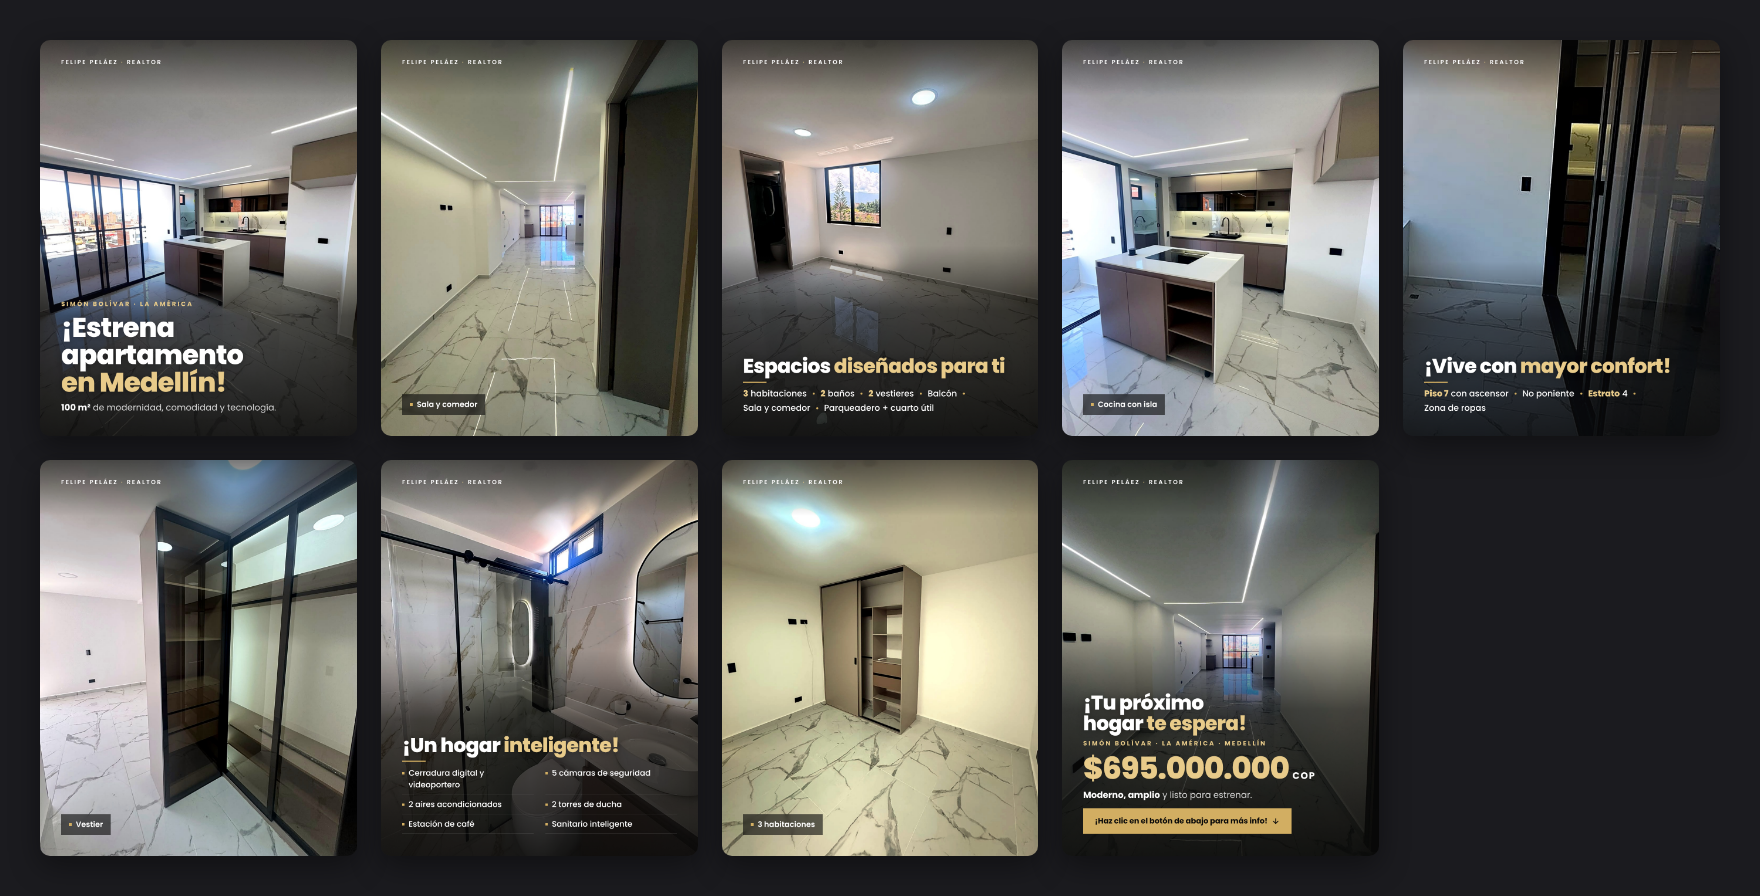
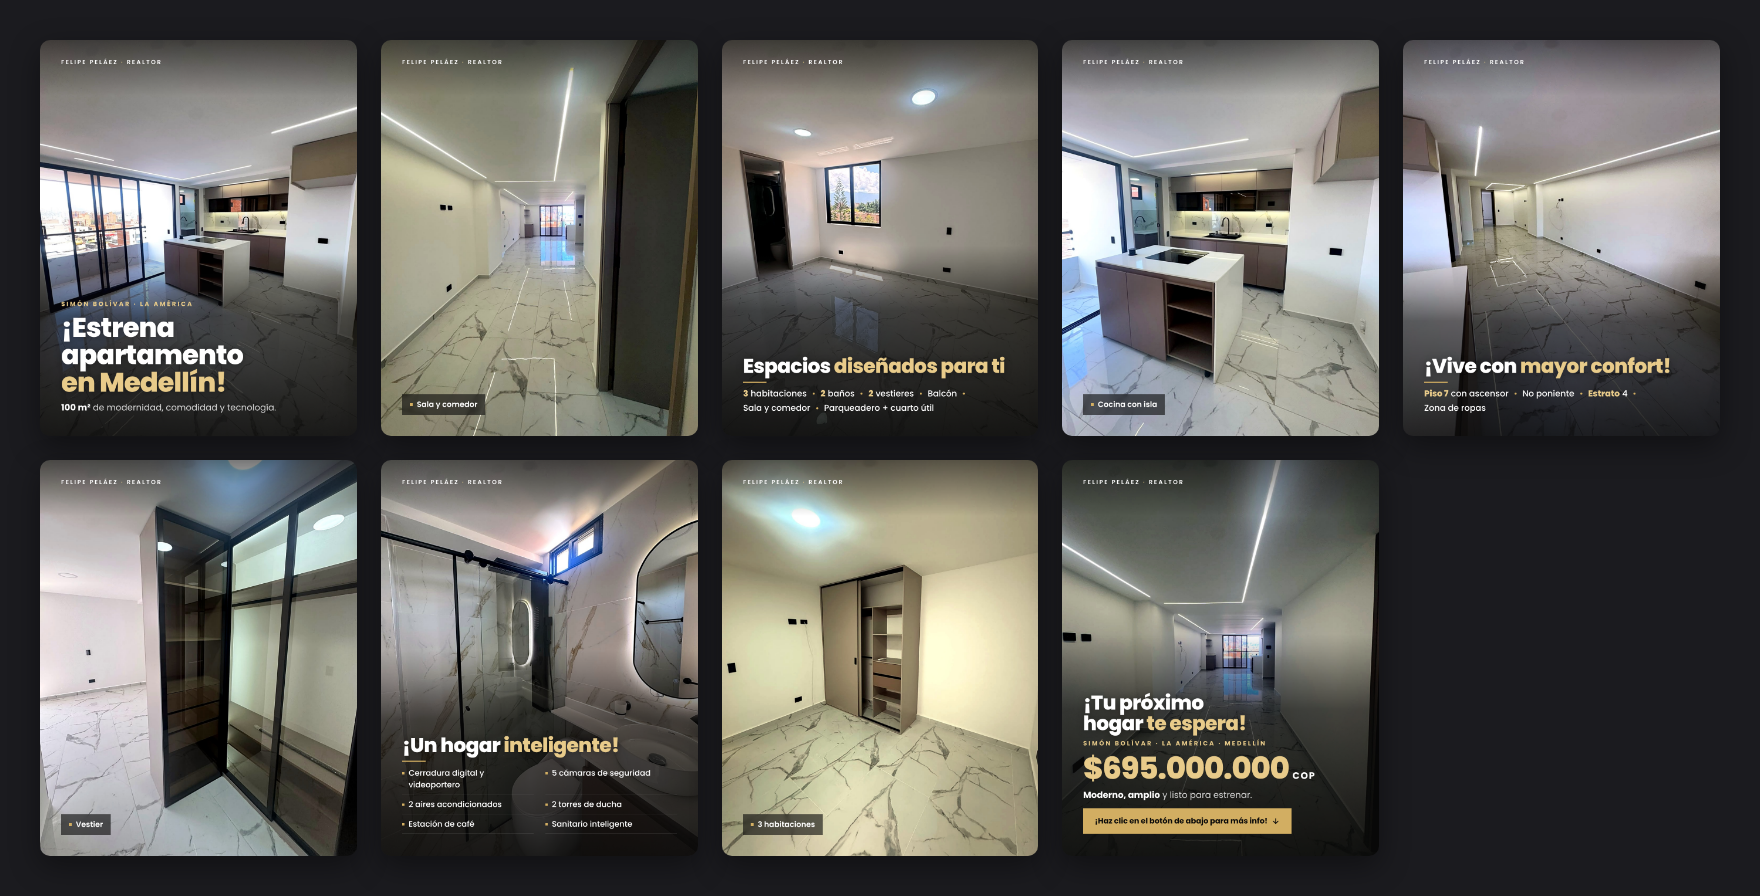
Carrusel de Felipe: «Vive con mayor confort» con la sala completa
Claude-Session: https://claude.ai/code/session_01Ej8Qu3LQLaQzy4gu2zPZyZ

Changed region(s): [[0.7812, 0.0312, 1.0, 0.4688]]

diff --git a/carruseles/proyectos/04-felipe/carrusel.html b/carruseles/proyectos/04-felipe/carrusel.html
@@ -115,7 +115,7 @@ h1 em, h2 em { font-style: normal; color: var(--gold-2); }
 
   <!-- 5 · UBICACIÓN Y COMODIDAD -->
   <section class="slide" data-chrome="off" data-progress="off">
-    <div class="photo"><img src="img/balcon-recorte.jpg" alt=""></div>
+    <div class="photo"><img src="img/sala.jpg" alt="" style="object-position:40% 50%"></div>
     <div class="band" style="height:44%"></div>
     <div class="brand">Felipe Peláez <span>·</span> Realtor</div>
     <div class="content">
